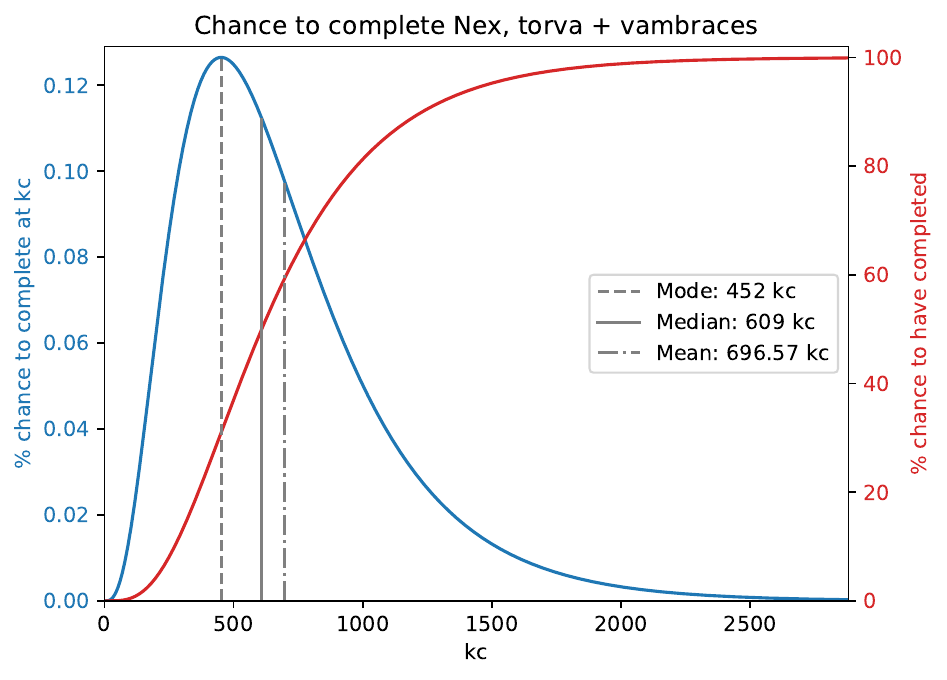
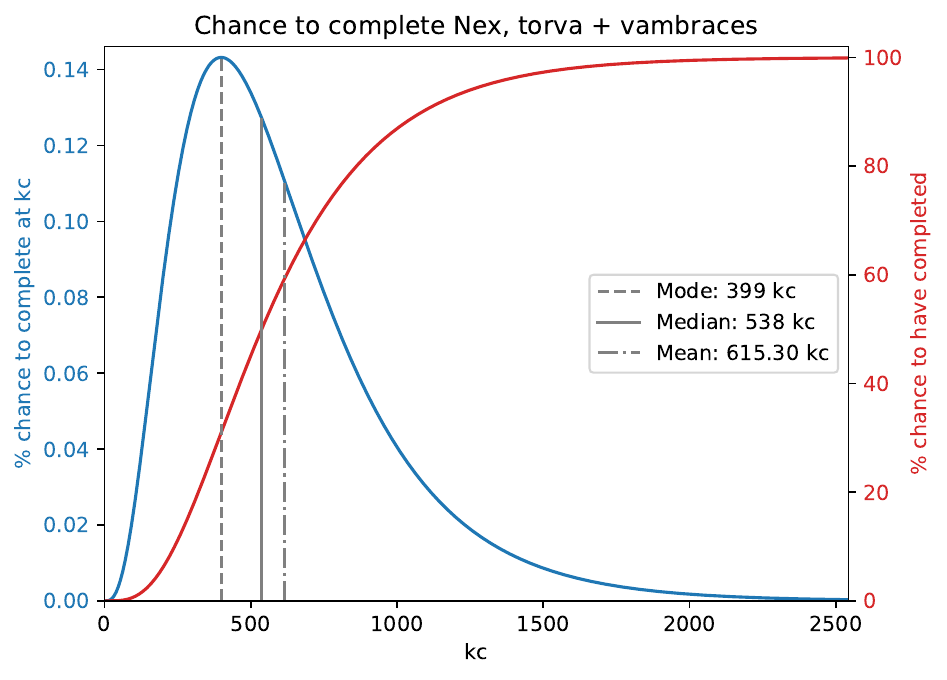
new nex rates

diff --git a/bosses.py b/bosses.py
@@ -414,7 +414,7 @@ class phosanis_nightmare(monster):
         self.teamsize = teamsize
 
 class nex(monster):
-    loot_odds = {"Zaryte vambraces":1/240,"Torva full helm (damaged)":1/360,"Torva platebody (damaged)":1/360, "Torva platelegs (damaged)":1/360, "Nihil horn":1/360, "Ancient hilt":1/720}
+    loot_odds = {"Zaryte vambraces":1/212,"Torva full helm (damaged)":1/318,"Torva platebody (damaged)":1/318, "Torva platelegs (damaged)":1/318, "Nihil horn":1/318, "Ancient hilt":1/636}
     loot_amount = {"Zaryte vambraces":1,"Torva full helm (damaged)":1,"Torva platebody (damaged)":1, "Torva platelegs (damaged)":1, "Nihil horn":1, "Ancient hilt":1}
 
 
@@ -572,9 +572,10 @@ temp2 = tempoross(loot_amount = {"soaked page":1, "fish barrel":1, "tackle box":
 nextorvanihilvambraces = nex(loot_amount = {"Zaryte vambraces":1,"Torva full helm (damaged)":1,"Torva platebody (damaged)":1, "Torva platelegs (damaged)":1, "Nihil horn":1}, name= "Nex, torva + vambraces + nihil")
 nextorvavambraces = nex(loot_amount = {"Zaryte vambraces":1,"Torva full helm (damaged)":1,"Torva platebody (damaged)":1, "Torva platelegs (damaged)":1}, name= "Nex, torva + vambraces")
 nextorva = nex(loot_amount = {"Torva full helm (damaged)":1,"Torva platebody (damaged)":1, "Torva platelegs (damaged)":1}, name= "Nex, just torva")
-nex5man = nex(loot_amount = {"Zaryte vambraces":1,"Torva full helm (damaged)":1,"Torva platebody (damaged)":1, "Torva platelegs (damaged)":1, "Nihil horn":1, "Ancient hilt":1}, teamsize=5, name="nex, (assuming 5 man)")
+nex6man = nex(loot_amount = {"Zaryte vambraces":1,"Torva full helm (damaged)":1,"Torva platebody (damaged)":1, "Torva platelegs (damaged)":1, "Nihil horn":1, "Ancient hilt":1}, teamsize=6, name="nex, (assuming 6 man)")
+nex8man = nex(loot_amount = {"Zaryte vambraces":1,"Torva full helm (damaged)":1,"Torva platebody (damaged)":1, "Torva platelegs (damaged)":1, "Nihil horn":1, "Ancient hilt":1}, teamsize=8, name="nex, (assuming 8 man)")
 
 tob3man = theatre_of_blood(loot_amount = {"scythe of vitur":1, "grazi rapier":1,"sanguinesti staff":1, "justiciar faceguard":1, "justiciar chestguard":1, "justiciar legguard":1, "avernic hilt":1}, name="Theatre of blood (3 man)", teamsize=3)
 
-complete_drops = [pnightjustinq, pnightinq, cg, cg1seed, hydra, hydra2, krak, kq, dks, ven, ven2, ven3, cerb, cerb2, sire, corp, zul, zul2, pnight, night, vork, temp, temp1, temp2, nextorvavambraces, nextorva, nextorvanihilvambraces, nex5man, tob3man]
+complete_drops = [pnightjustinq, pnightinq, cg, cg1seed, hydra, hydra2, krak, kq, dks, ven, ven2, ven3, cerb, cerb2, sire, corp, zul, zul2, pnight, night, vork, temp, temp1, temp2, nextorvavambraces, nextorva, nextorvanihilvambraces, nex6man, tob3man]
 all_bosses = [barrows(), nex(), phosanis_nightmare(), tempoross(), nightmare(), grotesque_guardians(), abyssal_sire(), cave_kraken(), cerberus(), thermonuclear_smoke_devil(), alchemical_hydra(), chaos_fanatic(), crazy_archaeologist(), scorpia(), vetion(), venenatis(), callisto(), obor(), bryophyta(), mimic(), hespori(), zalcano(), wintertodt(), corrupted_gauntlet(), gauntlet(), dagannoth_rex(), dagannoth_supreme(), dagannoth_prime(), sarachnis(), kalphite_queen(), zulrah(), vorkath(), corporeal_beast(), commander_zilyana(), general_graardor(), kril_tsutsaroth(), kree_arra(), theatre_of_blood(), chambers_of_xeric(), theatre_of_blood_hard_mode()]

diff --git a/drop_rolling.py b/drop_rolling.py
@@ -1,5 +1,5 @@
 from logging import error
-from bosses import all_bosses, complete_drops
+from bosses import all_bosses, complete_drops, nex8man
 import matplotlib
 from collections import Counter
 from multiprocessing import Pool
@@ -89,7 +89,8 @@ def createCompletionPlot(boss):
     plt.savefig(f"images/{boss.name.strip().lower()}.pdf", bbox_inches='tight')
 
 if __name__ == '__main__':
-    bosses = all_bosses + complete_drops
+    # bosses = all_bosses + complete_drops
 
-    pool = Pool(processes=pool_size)
-    pool.map(createCompletionPlot, bosses)
+    createCompletionPlot(nex8man)
+    # pool = Pool(processes=pool_size)
+    # pool.map(createCompletionPlot, bosses)
